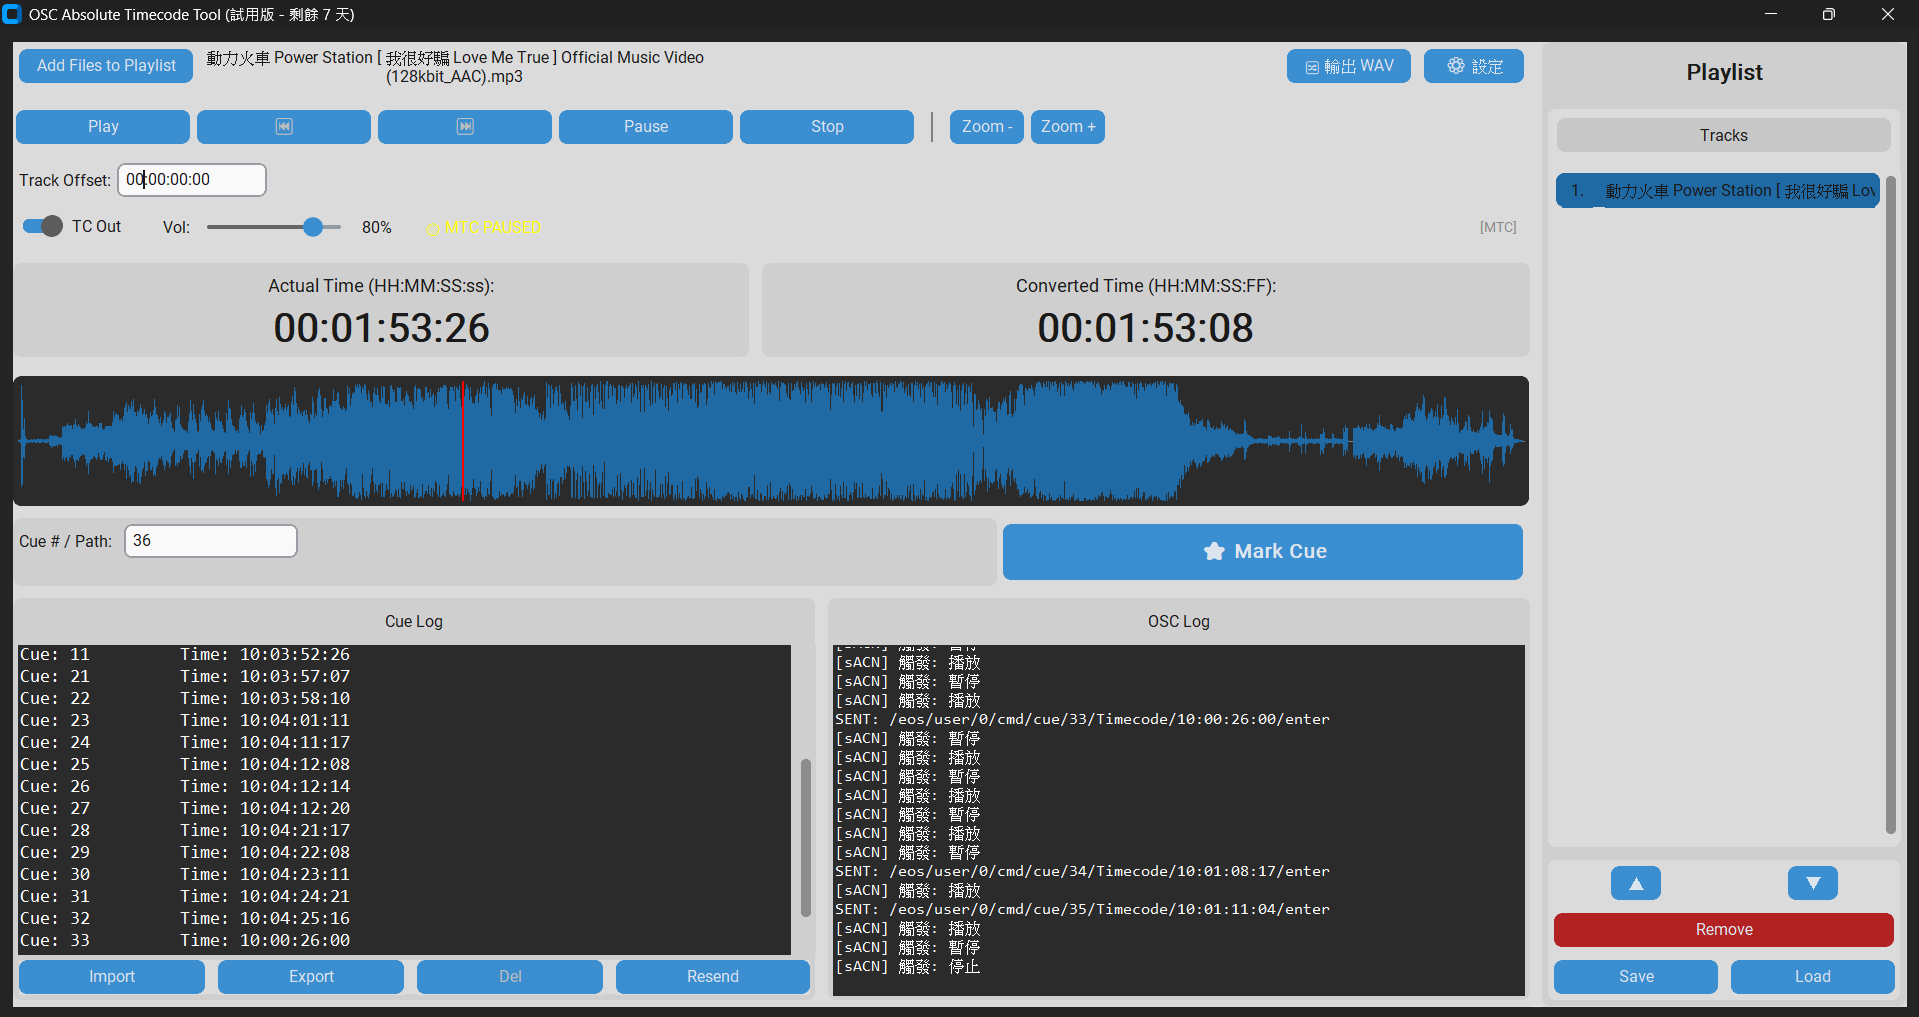
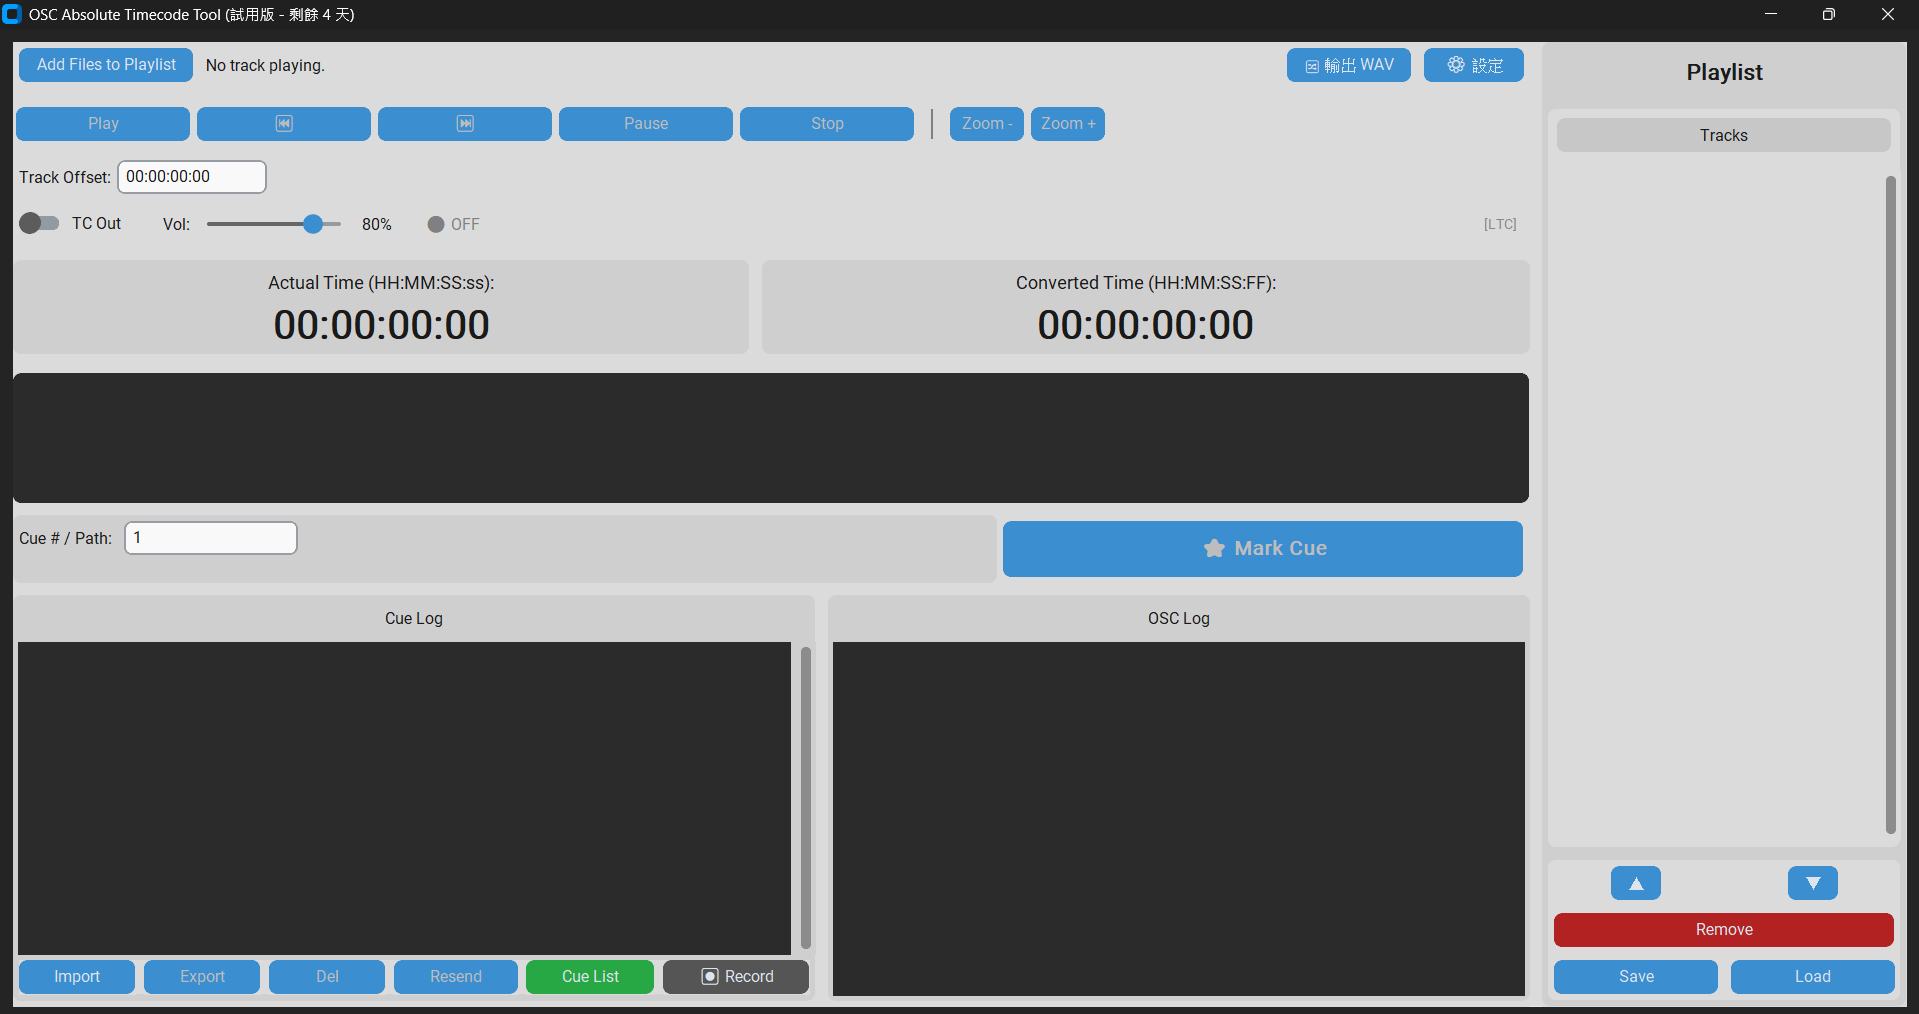
Update OSC Timecode Tool manual and product page with Cue List & Record features

diff --git a/Manual/osc_time_code_Manual_en.html b/Manual/osc_time_code_Manual_en.html
@@ -367,6 +367,10 @@
                         <p>Quickly mark, edit, and import/export Cue timecode logs.</p>
                     </div>
                     <div class="feature-card">
+                        <h4>🤖 Smart Cue List & Auto-Record</h4>
+                        <p>One-click console list sync, supports GO auto-capture writing.</p>
+                    </div>
+                    <div class="feature-card">
                         <h4>💾 WAV Export</h4>
                         <p>Export dual-channel WAV files (Left=LTC, Right=Music).</p>
                     </div>
@@ -777,6 +781,25 @@
                         <li>Click "Mark Cue" at desired timestamp.</li>
                         <li>Command is sent to console and logged locally.</li>
                     </ol>
+                </div>
+
+                <h3>Smart Cue List & Auto-Record</h3>
+                <p>The software features deep automation integration with the lighting console:</p>
+                <div class="feature-grid">
+                    <div class="feature-card">
+                        <h4>📋 Fetch Cue List</h4>
+                        <p>The software can request the full Cue list from the console and load it locally, eliminating the need for manual entry.</p>
+                    </div>
+                    <div class="feature-card">
+                        <h4>⏺ Auto-Record</h4>
+                        <p>When "Record" is enabled, pressing GO on the console triggers the software to instantly capture the command and automatically write the current music timecode to that Cue, perfectly matching your live programming rhythm.</p>
+                    </div>
+                </div>
+
+                <h3>Cue Log Management</h3>
+                <div class="screenshot">
+                    <img src="../pic/osc_timecode_tool 5.2 manual_images/Cue_Log.png" alt="Cue Log">
+                    <div class="screenshot-caption">Fig 12: Cue Log displaying marked Cues and their corresponding timecodes</div>
                 </div>
 
                 <table>

diff --git a/products/osc-tool.html b/products/osc-tool.html
@@ -751,7 +751,7 @@
             </article>
 
             <article class="hero-ui">
-                <img src="../assets/products/osc-tool/ui_full.png" alt="OSC Tool Interface">
+                <img src="../pic/osc_timecode_tool 5.2 manual_images/Interface_Overview.png" alt="OSC Tool Interface">
                 <div class="quick-spec">
                     <article>
                         <strong>Audio</strong>
@@ -808,7 +808,7 @@
                     <div class="feature-book" id="feature-book">
                         <article class="feature-page" id="feature-page-single"></article>
                     </div>
-                    <div class="feature-page-indicator" id="feature-page-indicator">FEATURE 1 / 6</div>
+                    <div class="feature-page-indicator" id="feature-page-indicator">FEATURE 1 / 7</div>
                 </div>
                 <button class="feature-nav" id="feature-next" aria-label="Next Features">&#10095;</button>
             </div>
@@ -941,6 +941,17 @@
                 fallbackTitle: "SMART PLAYLIST",
                 fallbackDesc: "Manage multi-track shows with quick reordering and per-track timing control.",
                 fallbackHl: "Each track keeps an independent offset for seamless cue continuity across songs."
+            },
+            {
+                id: "F07",
+                image: "../pic/osc_timecode_tool 5.2 manual_images/Cue_Log.png",
+                alt: "Smart Cue List & Auto-Record",
+                titleKey: "osc_f7_title",
+                descKey: "osc_f7_desc",
+                hlKey: "osc_f7_hl",
+                fallbackTitle: "SMART CUE LIST & AUTO-RECORD",
+                fallbackDesc: "Automated Cue management system. Not only can it fetch the full Cue List directly from the console, but it also features a powerful auto-record function.",
+                fallbackHl: "Auto Capture: Press GO on the console and the software instantly captures the command, writing the exact timecode to the active Cue."
             }
         ];
         let featureIndex = 0;

diff --git a/i18n.js b/i18n.js
@@ -46,6 +46,9 @@ const translations = {
         "osc_f5_title": "sACN DMX 遙控",
         "osc_f5_desc": "透過 sACN (E1.31) 協定接收 DMX 訊號，讓您可以直接從燈控台遙控播放器的 播放、暫停、停止、上一首與下一首等功能。",
         "osc_f5_hl": "特色功能： 每個功能可自由設定對應的 DMX 通道 (1-512)，輕鬆實現燈光與音效的硬體連動控裝。",
+        "osc_f7_title": "智慧 Cue List 與自動記錄",
+        "osc_f7_desc": "自動化 Cue 管理系統。不僅能自動從燈控台獲取完整的 Cue List，更具備強大的自動記錄功能。",
+        "osc_f7_hl": "自動捕捉： 當您在燈控台按下 GO 時，軟體會自動捕捉指令，並將當下的時間碼精準寫入至對應的 Cue，完美契合您的現場操作節奏。",
         "osc_sys_req": "系統需求",
         "spec_os": "OS",
         "spec_console": "控台",
@@ -140,6 +143,9 @@ const translations = {
         "osc_f5_title": "sACN DMX REMOTE",
         "osc_f5_desc": "Receive DMX signals via sACN (E1.31) protocol, allowing your lighting console to remotely control Play, Pause, Stop, Prev, and Next functions.",
         "osc_f5_hl": "Key Feature: Fully customizable DMX channel mapping (1-512) for each function, enabling seamless integration with hardware consoles.",
+        "osc_f7_title": "Smart Cue List & Auto-Record",
+        "osc_f7_desc": "Automated Cue management system. Not only can it fetch the full Cue List directly from the console, but it also features a powerful auto-record function.",
+        "osc_f7_hl": "Auto Capture: Press GO on the console and the software instantly captures the command, writing the exact timecode to the active Cue to perfectly match your live workflow.",
         "osc_sys_req": "SYSTEM REQUIREMENTS",
         "spec_os": "OS",
         "spec_console": "Console",

diff --git a/Manual/osc time codeManual.html b/Manual/osc time codeManual.html
@@ -378,6 +378,10 @@
                         <p>快速標記、編輯、匯入/匯出 Cue 時間碼</p>
                     </div>
                     <div class="feature-card">
+                        <h4>🤖 Cue List 與自動記錄</h4>
+                        <p>一鍵同步控台清單，支援 GO 鍵自動捕捉寫入</p>
+                    </div>
+                    <div class="feature-card">
                         <h4>💾 WAV 輸出</h4>
                         <p>輸出雙聲道 WAV（左=LTC，右=音樂）</p>
                     </div>
@@ -844,6 +848,19 @@
                         <li>按下「Mark Cue」按鈕</li>
                         <li>系統會發送 OSC 指令至燈控台並記錄到 Cue Log</li>
                     </ol>
+                </div>
+
+                <h3>Cue List 自動同步與 Record 自動記錄</h3>
+                <p>軟體具備與燈控台深度整合的自動化功能：</p>
+                <div class="feature-grid">
+                    <div class="feature-card">
+                        <h4>📋 獲取 Cue List</h4>
+                        <p>軟體可向燈控台發送請求，獲取完整的 Cue 清單並載入至軟體中，省去手動輸入的麻煩。</p>
+                    </div>
+                    <div class="feature-card">
+                        <h4>⏺ Record 自動記錄</h4>
+                        <p>開啟「Record」功能後，當您在燈控台按下 GO 鍵，軟體會即時捕捉指令，並自動將當下的音樂時間碼寫入該 Cue 點，完美契合您的現場編排節奏。</p>
+                    </div>
                 </div>
 
                 <h3>Cue Log 管理</h3>
